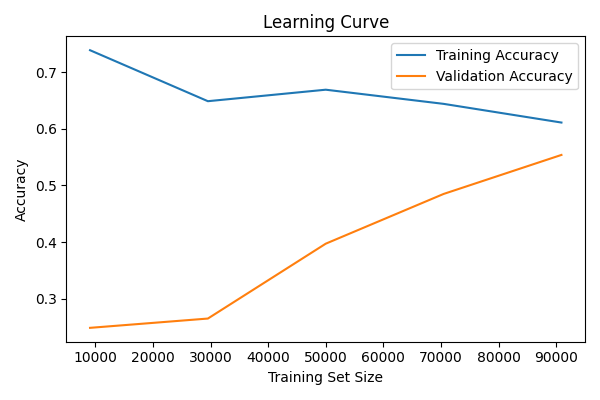
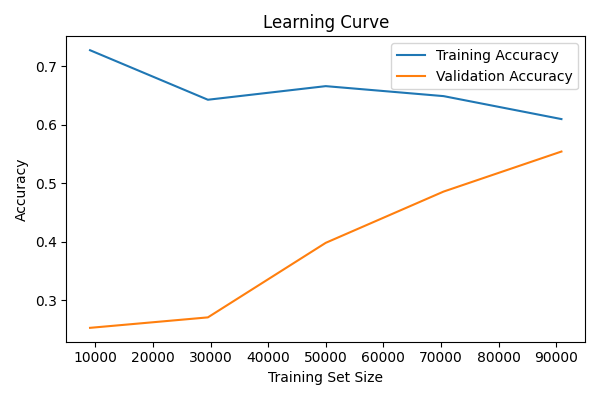
update basemodel

diff --git a/ml_evaluation/baseline_rf.py b/ml_evaluation/baseline_rf.py
@@ -11,7 +11,7 @@ from sklearn.ensemble import RandomForestClassifier
 from sklearn.model_selection import train_test_split, learning_curve
 from sklearn.preprocessing import LabelEncoder
 from sklearn.feature_selection import SelectKBest, mutual_info_classif
-from sklearn.metrics import classification_report, confusion_matrix, accuracy_score, f1_score, precision_score
+from sklearn.metrics import classification_report, confusion_matrix, accuracy_score, f1_score, precision_score, recall_score, roc_auc_score
 from imblearn.over_sampling import SMOTE
 from collections import Counter
 
@@ -20,28 +20,6 @@ from sklearn.preprocessing import StandardScaler
 
 logging.basicConfig(level=logging.INFO)
 logger = logging.getLogger(__name__)
-
-class DBSCANClusterer:
-    def __init__(self, eps=0.3, min_samples=10):
-        self.eps = eps
-        self.min_samples = min_samples
-        self.model = DBSCAN(eps=self.eps, min_samples=self.min_samples)
-    
-    def fit_predict(self, df, lat_col='latitude', lon_col='longitude'):
-        if lat_col not in df.columns or lon_col not in df.columns:
-            raise ValueError("Missing latitude or longitude columns in DataFrame.")
-
-        coords = df[[lat_col, lon_col]].dropna()
-        coords_scaled = StandardScaler().fit_transform(coords)
-
-        cluster_labels = self.model.fit_predict(coords_scaled)
-
-        # 預設所有 cluster_id 是 NaN，再補回對應 index 的 label
-        full_labels = pd.Series(np.nan, index=df.index)
-        full_labels[coords.index] = cluster_labels
-
-        df['cluster_id'] = full_labels
-        return df
     
 class RandomForestPipeline:
     def __init__(self):
@@ -57,14 +35,15 @@ class RandomForestPipeline:
 
         self.df = pd.read_csv(self.csv_path)
         logger.info("CSV file loaded successfully")
-        logger.info(f"Data Start Date: {self.df.iloc[0]['incident_datetime']}, End Date: {self.df.iloc[-1]['incident_datetime']}")
-        logger.info(f"Data Shape: {self.df.columns.shape[0]}")
+        logger.info(f"Data End Date: {self.df.iloc[0]['incident_datetime']}, Start Date: {self.df.iloc[-1]['incident_datetime']}")
+        logger.info(f"Data Shape: {self.df.shape[0]} num od data, {self.df.shape[1]} num of features.")
+
 
     def run_multiple_targets(self, label_cols):
         results = []
         
         for label_col in label_cols:
-            logger.info(f"\n=== {label_cols.index(label_col)+1}.Training with label: {label_col} ===")
+            logger.info(f"\n====== {label_cols.index(label_col)+1}.Training with label: {label_col} ======")
             
             try:
                 X_train, X_test, y_train, y_test, label_encoder = self.preprocess(label_col)
@@ -115,6 +94,8 @@ class RandomForestPipeline:
                     'accuracy': 0.0,
                     'f1_score': 0.0,
                     'precision': 0.0,
+                    'recall': 0.0,
+                    'roc_auc': None,
                     'training_time_sec': 0.0,
                     'used_smote': False,
                     'error': str(e)
@@ -123,48 +104,47 @@ class RandomForestPipeline:
         df_results = pd.DataFrame(results)
         os.makedirs("outputs", exist_ok=True)
         df_results.to_csv("outputs/model_comparison.csv", index=False)
-        logger.info("\n=== Summary ===\n" + str(df_results))
+        self.plot_all_model_scores(df_results)
+        logger.info("\n====== Summary ======\n" + str(df_results))
 
     def preprocess(self, target_col):
-        clusterer = DBSCANClusterer(eps=0.3, min_samples=10)
-        self.df = clusterer.fit_predict(self.df)
-        logger.info("DBSCAN clustering complete. Added 'cluster_id' feature.")
 
         self.create_super_categories()
         self.create_features()
 
-        features = ['hour', 'month', 'dayOfweek', 'latitude', 'longitude', 'neighborhood', 'geo_grid', 'cluster_id']
+        features = ['hour', 'month', 'dayOfweek', 'latitude', 'longitude', 
+                    'neighborhood', 'geo_grid', 'grid_id', 'grid_density']
         X = self.df[features]
         y_raw = self.df[target_col]
 
         # Filter out classes with very few samples - increase minimum to ensure stratification works
         class_counts = y_raw.value_counts()
         min_samples_per_class = max(20, int(len(y_raw) * 0.3 * 0.01))  # At least 20 or 1% of 30% of data
-        valid_classes = class_counts[class_counts >= min_samples_per_class].index
-        
+
         logger.info(f"  Original classes:       {len(class_counts)}")
         logger.info(f"  Min samples per class:  {min_samples_per_class}")
-        logger.info(f"  Valid classes:          {len(valid_classes)}, which is bigger than {min_samples_per_class} samples")
-        
-        # If not enough valid classes, fallback to a lower threshold
+
+        # If the sample size id too small, mark it as Other
+        small_classes = class_counts[class_counts < min_samples_per_class].index
+        y_raw = y_raw.apply(lambda x: 'Other' if x in small_classes else x)
+
+        # Check of class Other is enough or not
+        final_counts = y_raw.value_counts()
+        valid_classes = final_counts[final_counts >= min_samples_per_class].index
+
+        logger.info(f"  Valid classes:          {len(valid_classes)} , which is bigger than {min_samples_per_class} samples")
+
+        y_raw = y_raw[y_raw.isin(valid_classes)]
+        X = X.loc[y_raw.index]
+
         if len(valid_classes) < 2:
-            min_samples_per_class = 6 # Fallback: use classes with at least 6 samples
-            valid_classes = class_counts[class_counts >= min_samples_per_class].index
-            logger.warning(f"Fallback: Using classes with >={min_samples_per_class} samples: {len(valid_classes)}")
-            
-            if len(valid_classes) < 2:
-                raise ValueError(f"Not enough valid classes for classification. Only {len(valid_classes)} classes have >={min_samples_per_class} samples.")
-        
-        # Filter data to only include valid classes
-        mask = y_raw.isin(valid_classes)
-        X = X[mask]
-        y_raw = y_raw[mask]
+            raise ValueError(f"Not enough valid classes for classification. Only {len(valid_classes)} classes >= {min_samples_per_class} samples.")
 
         # Encode labels
         le = LabelEncoder()
         y = le.fit_transform(y_raw)
         logger.info(f"  Using label column '{target_col}': {len(le.classes_)} classes")
-        logger.info(f"  -> Class distribution after filtering: {pd.Series(y).value_counts().sort_index().to_dict()}")
+        logger.info(f"      Class distribution after filtering: "+ "\n" +f"      {pd.Series(y).value_counts().sort_index().to_dict()}")
         self.label_encoder = le
 
         # Feature selection
@@ -172,7 +152,7 @@ class RandomForestPipeline:
         X_new = selector.fit_transform(X, y)
         self.selected_features = [features[i] for i in selector.get_support(indices=True)]
 
-        # Use stratified split with better error handling
+        # Stratified split with multiple attempts
         max_attempts = 3
         for attempt in range(max_attempts):
             try:
@@ -180,7 +160,6 @@ class RandomForestPipeline:
                     X_new, y, test_size=0.3, random_state=42 + attempt, stratify=y
                 )
                 
-                # Verify that all classes are present in both splits
                 train_classes = set(y_train)
                 test_classes = set(y_test)
                 all_classes = set(y)
@@ -200,7 +179,7 @@ class RandomForestPipeline:
                     X_train, X_test, y_train, y_test = train_test_split(
                         X_new, y, test_size=0.3, random_state=42
                     )
-        
+
         return X_train, X_test, y_train, y_test, le
 
     def create_super_categories(self):
@@ -261,6 +240,25 @@ class RandomForestPipeline:
 
         self.df['geo_grid'] = pd.cut(self.df['latitude'], bins=10, labels=False) * 10 + pd.cut(self.df['longitude'], bins=10, labels=False)
 
+        # Geo feature: 0.01 as ablock size
+        lat_bins = np.arange(self.df['latitude'].min(), self.df['latitude'].max(), 0.01)
+        lon_bins = np.arange(self.df['longitude'].min(), self.df['longitude'].max(), 0.01)
+
+        self.df['lat_bin'] = pd.cut(self.df['latitude'], bins=lat_bins, labels=False)
+        self.df['lon_bin'] = pd.cut(self.df['longitude'], bins=lon_bins, labels=False)
+
+        self.df['grid_id'] = self.df['lat_bin'] * 1000 + self.df['lon_bin']
+
+        grid_density = self.df['grid_id'].value_counts().to_dict()
+        self.df['grid_density'] = self.df['grid_id'].map(grid_density).fillna(0)
+
+        # Fill NaN values with -1 for categorical features
+        self.df['lat_bin'] = self.df['lat_bin'].fillna(-1)
+        self.df['lon_bin'] = self.df['lon_bin'].fillna(-1)
+        self.df['grid_id'] = self.df['grid_id'].fillna(-1)
+        self.df['grid_density'] = self.df['grid_density'].fillna(0)
+
+
     def train_and_evaluate(self, X_train, X_test, y_train, y_test, label_encoder, suffix=""):
         model = RandomForestClassifier(n_estimators=100, max_depth=10, random_state=42)
         model.fit(X_train, y_train)
@@ -275,8 +273,24 @@ class RandomForestPipeline:
         acc = accuracy_score(y_test, y_pred)
         f1 = f1_score(y_test, y_pred, average='weighted', zero_division=0)
         precision = precision_score(y_test, y_pred, average='weighted', zero_division=0)
-        
-        logger.info(f"Accuracy: {acc:.4f}, F1 Score: {f1:.4f}, Precision: {precision:.4f}")
+        recall = recall_score(y_test, y_pred, average='weighted', zero_division=0)
+
+        try:
+            y_proba = model.predict_proba(X_test)
+
+            if len(label_encoder.classes_) == 2:
+                # Binary classification
+                roc_auc = roc_auc_score(y_test, y_proba[:, 1])
+            else:
+                # Multiclass classification
+                roc_auc = roc_auc_score(y_test, y_proba, multi_class='ovr', average='weighted')
+
+        except Exception as e:
+            roc_auc = None
+            logger.warning(f"ROC AUC could not be computed: {e}")
+
+                
+        logger.info(f"Accuracy: {acc:.4f}, F1 Score: {f1:.4f}, Precision: {precision:.4f}, Recall: {recall:.4f}, ROC AUC: {roc_auc:.4f}.")
 
         # Get per-class metrics with proper label handling
         try:
@@ -298,18 +312,17 @@ class RandomForestPipeline:
                 target_names=target_names,
                 zero_division=0
             )
-            logger.info("\n" + report)
+            logger.info("\n" + report+ "\n")
             
         except Exception as e:
             logger.warning(f"Could not generate classification report: {e}")
 
         # Use proper label mapping for confusion matrix
         self.plot_confusion(y_test, y_pred, unique_labels, target_names, suffix)
-        self.plot_scores(acc, f1, precision, suffix)
         self.plot_learning_curve(model, X_train, y_train, suffix)
         self.plot_feature_importance(model, suffix)
 
-        return model, {'accuracy': acc, 'f1_score': f1, 'precision': precision}
+        return model, {'accuracy': acc, 'f1_score': f1, 'precision': precision, 'recall': recall, 'roc_auc': roc_auc}
     
     def create_classification_report_table(self, report_dict, suffix=""):
         """Create and save detailed classification report as table"""
@@ -385,7 +398,7 @@ class RandomForestPipeline:
             
             # Plot 2: Support (sample count) by class
             bars = ax2.bar(viz_df['Class'], viz_df['Support'], 
-                          alpha=0.8, color='Set3', edgecolor='grey')
+                          alpha=0.8, color='#438add', edgecolor='grey')
             ax2.set_xlabel('Classes')
             ax2.set_ylabel('Number of Samples')
             ax2.set_title(f'Sample Distribution by Class - {suffix}')
@@ -430,39 +443,6 @@ class RandomForestPipeline:
         plt.savefig(f"outputs/confusion_matrix_{suffix}.png", dpi=300, bbox_inches='tight')
         plt.close()
 
-    def plot_scores(self, acc, f1, precision, suffix=""):
-        # Create bar chart for metrics
-        plt.figure(figsize=(8, 6))
-        metrics = [acc, f1, precision]
-        names = ['Accuracy', 'F1 Score', 'Precision']
-        colors = ['skyblue', 'lightgreen', 'lightcoral']
-        
-        bars = plt.bar(names, metrics, color=colors, alpha=0.7, edgecolor='black')
-        plt.ylim(0, 1)
-        plt.ylabel('Score')
-        plt.title(f'Model Performance Metrics - {suffix}')
-        
-        # Add value labels on bars
-        for bar, value in zip(bars, metrics):
-            plt.text(bar.get_x() + bar.get_width()/2, bar.get_height() + 0.01, 
-                    f'{value:.4f}', ha='center', va='bottom', fontweight='bold')
-        
-        plt.grid(axis='y', alpha=0.3)
-        plt.tight_layout()
-        os.makedirs("outputs", exist_ok=True)
-        plt.savefig(f"outputs/metrics_plot_{suffix}.png", dpi=300)
-        plt.close()
-        
-        # Create and save metrics table
-        metrics_df = pd.DataFrame({
-            'Metric': names,
-            'Score': metrics
-        })
-        metrics_df['Score'] = metrics_df['Score'].round(4)
-        metrics_df.to_csv(f"outputs/metrics_table_{suffix}.csv", index=False)
-        logger.info(f"\nMetrics Table for {suffix}:")
-        logger.info(metrics_df.to_string(index=False))
-
     def plot_learning_curve(self, model, X, y, suffix=""):
         train_sizes, train_scores, test_scores = learning_curve(model, X, y, cv=5, scoring='accuracy')
         train_mean = np.mean(train_scores, axis=1)
@@ -484,11 +464,35 @@ class RandomForestPipeline:
         importances = model.feature_importances_
         feature_names = self.selected_features
         plt.figure(figsize=(8, 5))
-        sns.barplot(x=importances, y=feature_names, palette='Set3')
+        sns.barplot(x=importances, y=feature_names, palette='Set3', hue=importances)
         plt.title("Feature Importances")
         plt.tight_layout()
         os.makedirs("outputs", exist_ok=True)
         plt.savefig(f"outputs/feature_importance_{suffix}.png")
+        plt.close()
+
+    def plot_all_model_scores(self, metrics_df):
+        """
+        Expects a DataFrame like:
+        label, accuracy, f1_score, precision, recall, roc_auc
+
+        Model Label	        | Accuracy	| F1 Score	| Precision	| Recall | ROC AUC
+        incident_category	| 0.54	    | 0.50    	| 0.52    	| 0.51	 | 0.62
+        crime_type_super	| 0.72	    | 0.69	    | 0.70    	| 0.68	 | 0.76
+        crime_type_violent	| 0.89     	| 0.88    	| 0.90	    | 0.86	 | 0.93
+        """
+        df_melted = metrics_df.melt(id_vars='label', 
+                                    value_vars=['accuracy', 'f1_score', 'precision', 'recall', 'roc_auc'],
+                                    var_name='Metric', value_name='Score')
+
+        plt.figure(figsize=(10, 6))
+        sns.barplot(x='Metric', y='Score', hue='label', data=df_melted)
+        plt.ylim(0, 1)
+        plt.title('Comparison of Model Performance Across Targets')
+        plt.ylabel('Score')
+        plt.tight_layout()
+        os.makedirs("outputs", exist_ok=True)
+        plt.savefig("outputs/model_comparison_all_metrics.png", dpi=300)
         plt.close()
 
 if __name__ == "__main__":
